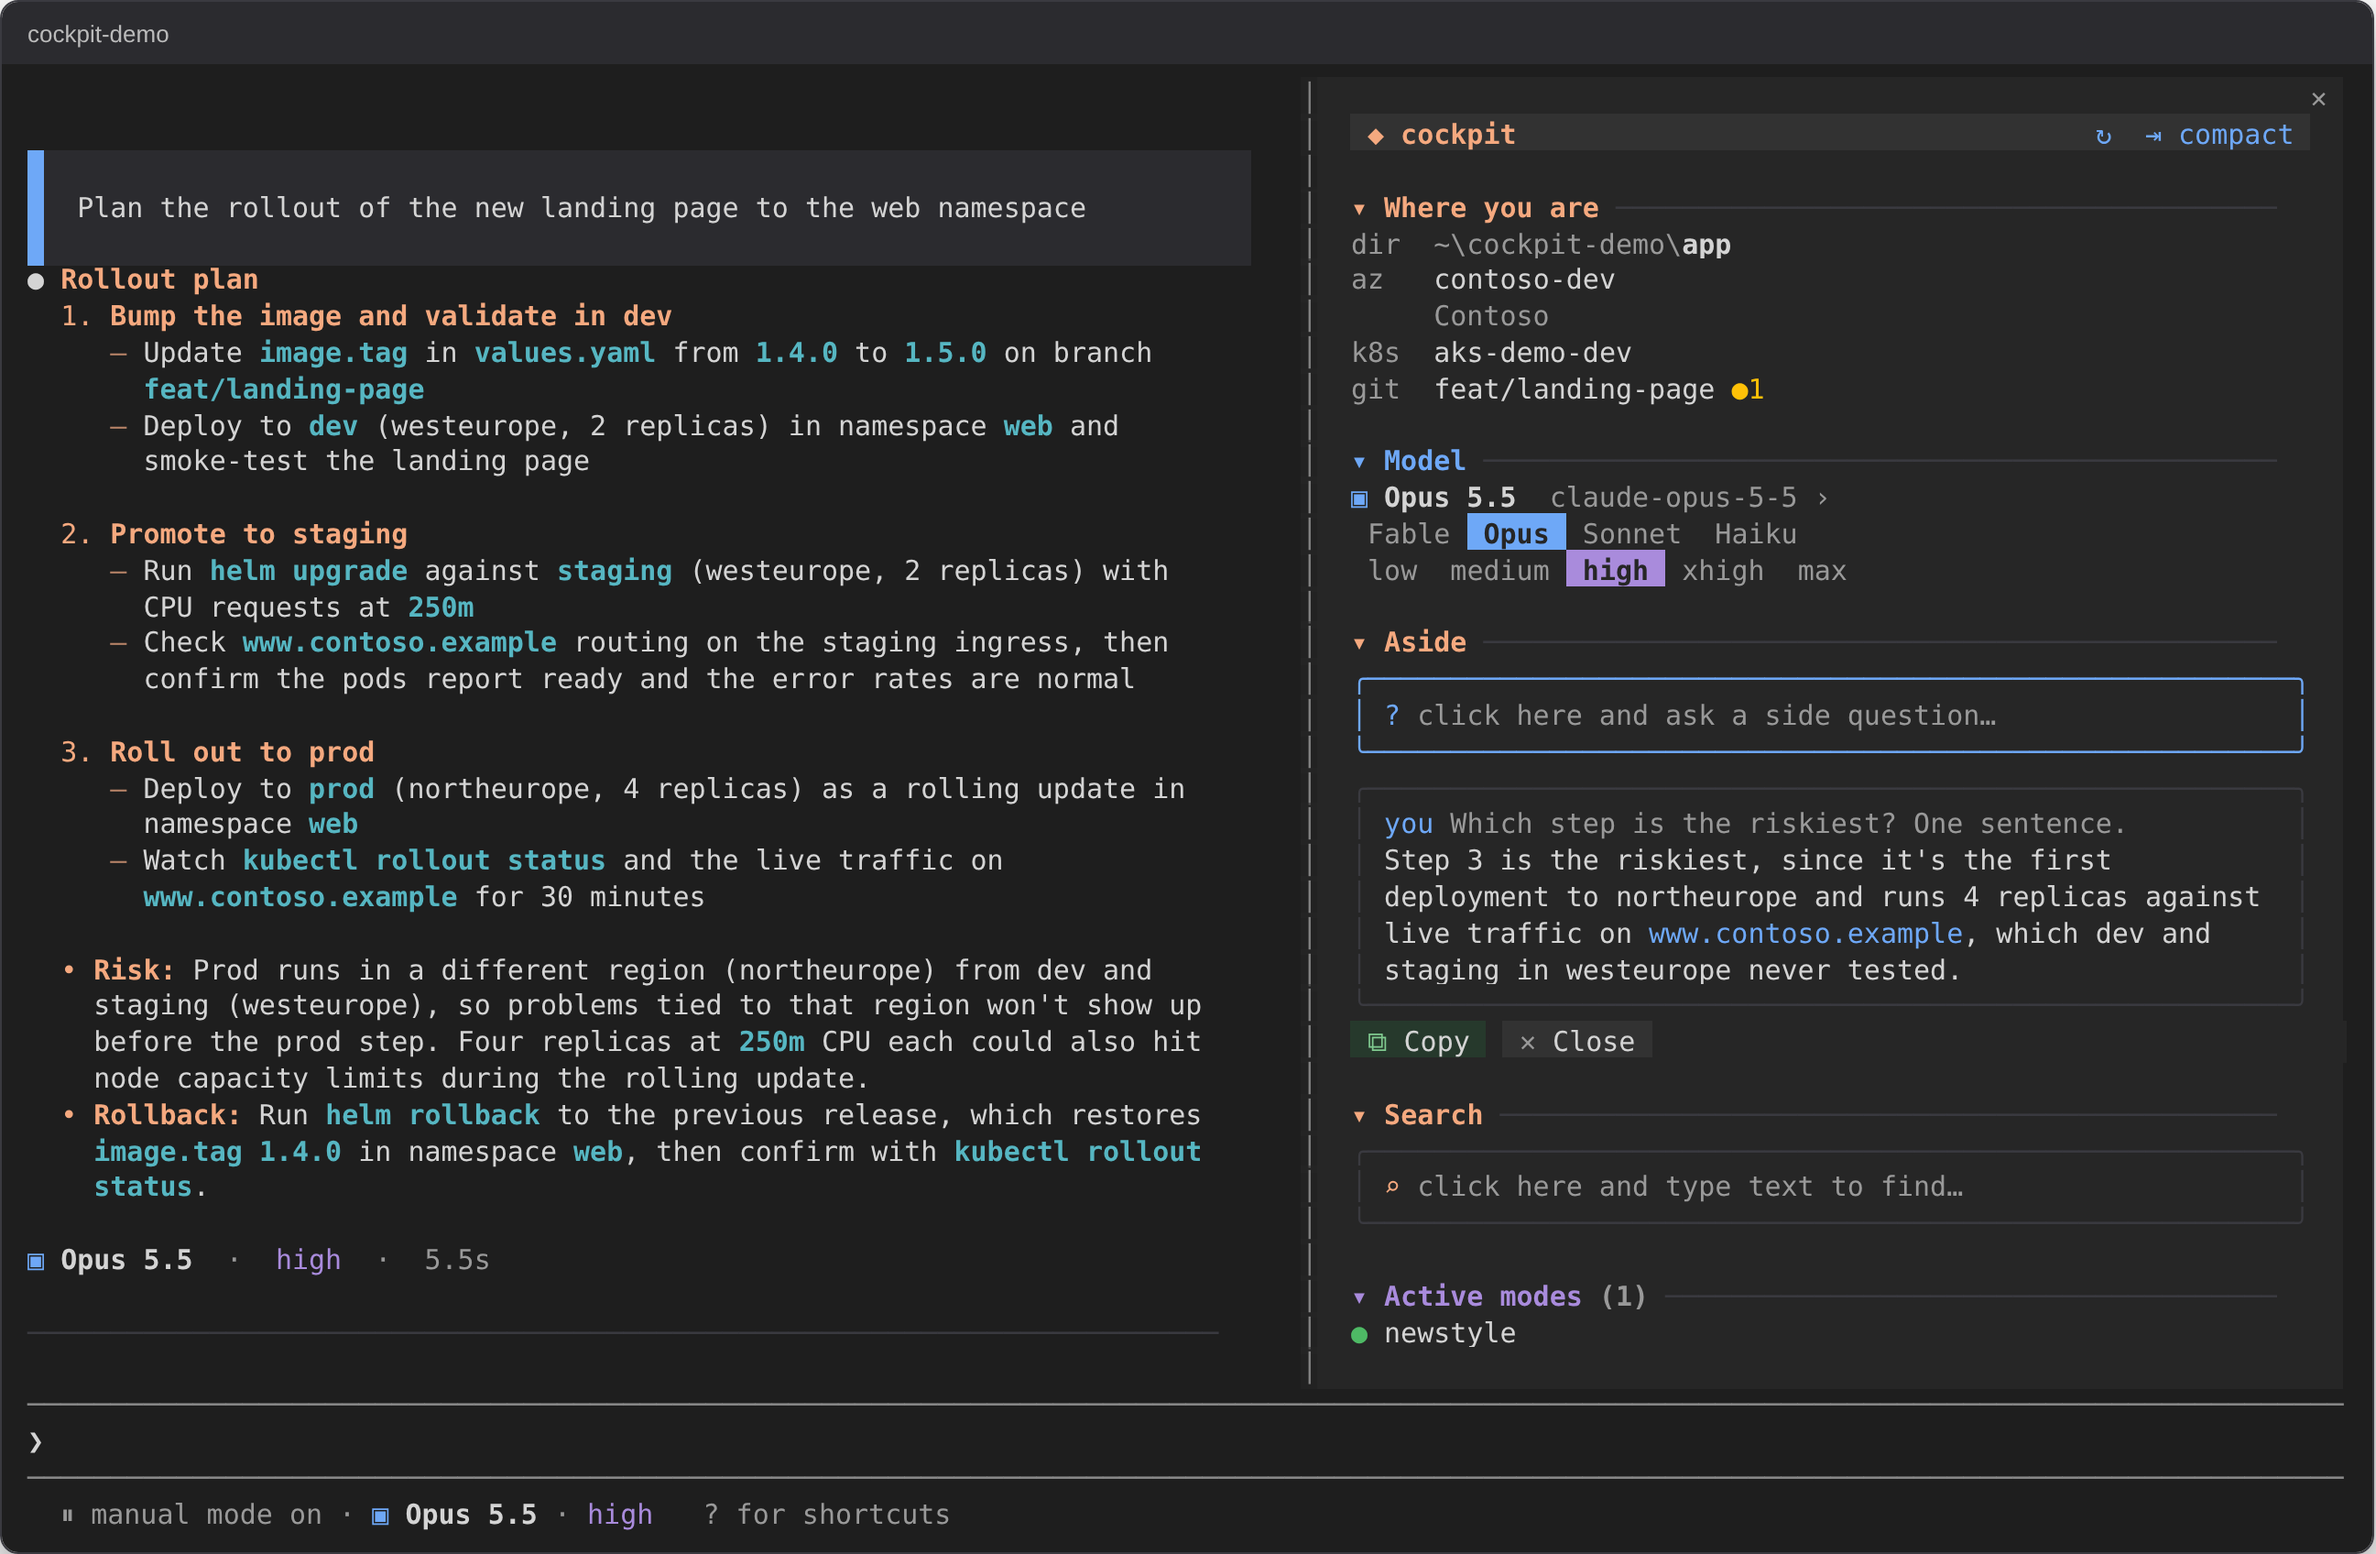
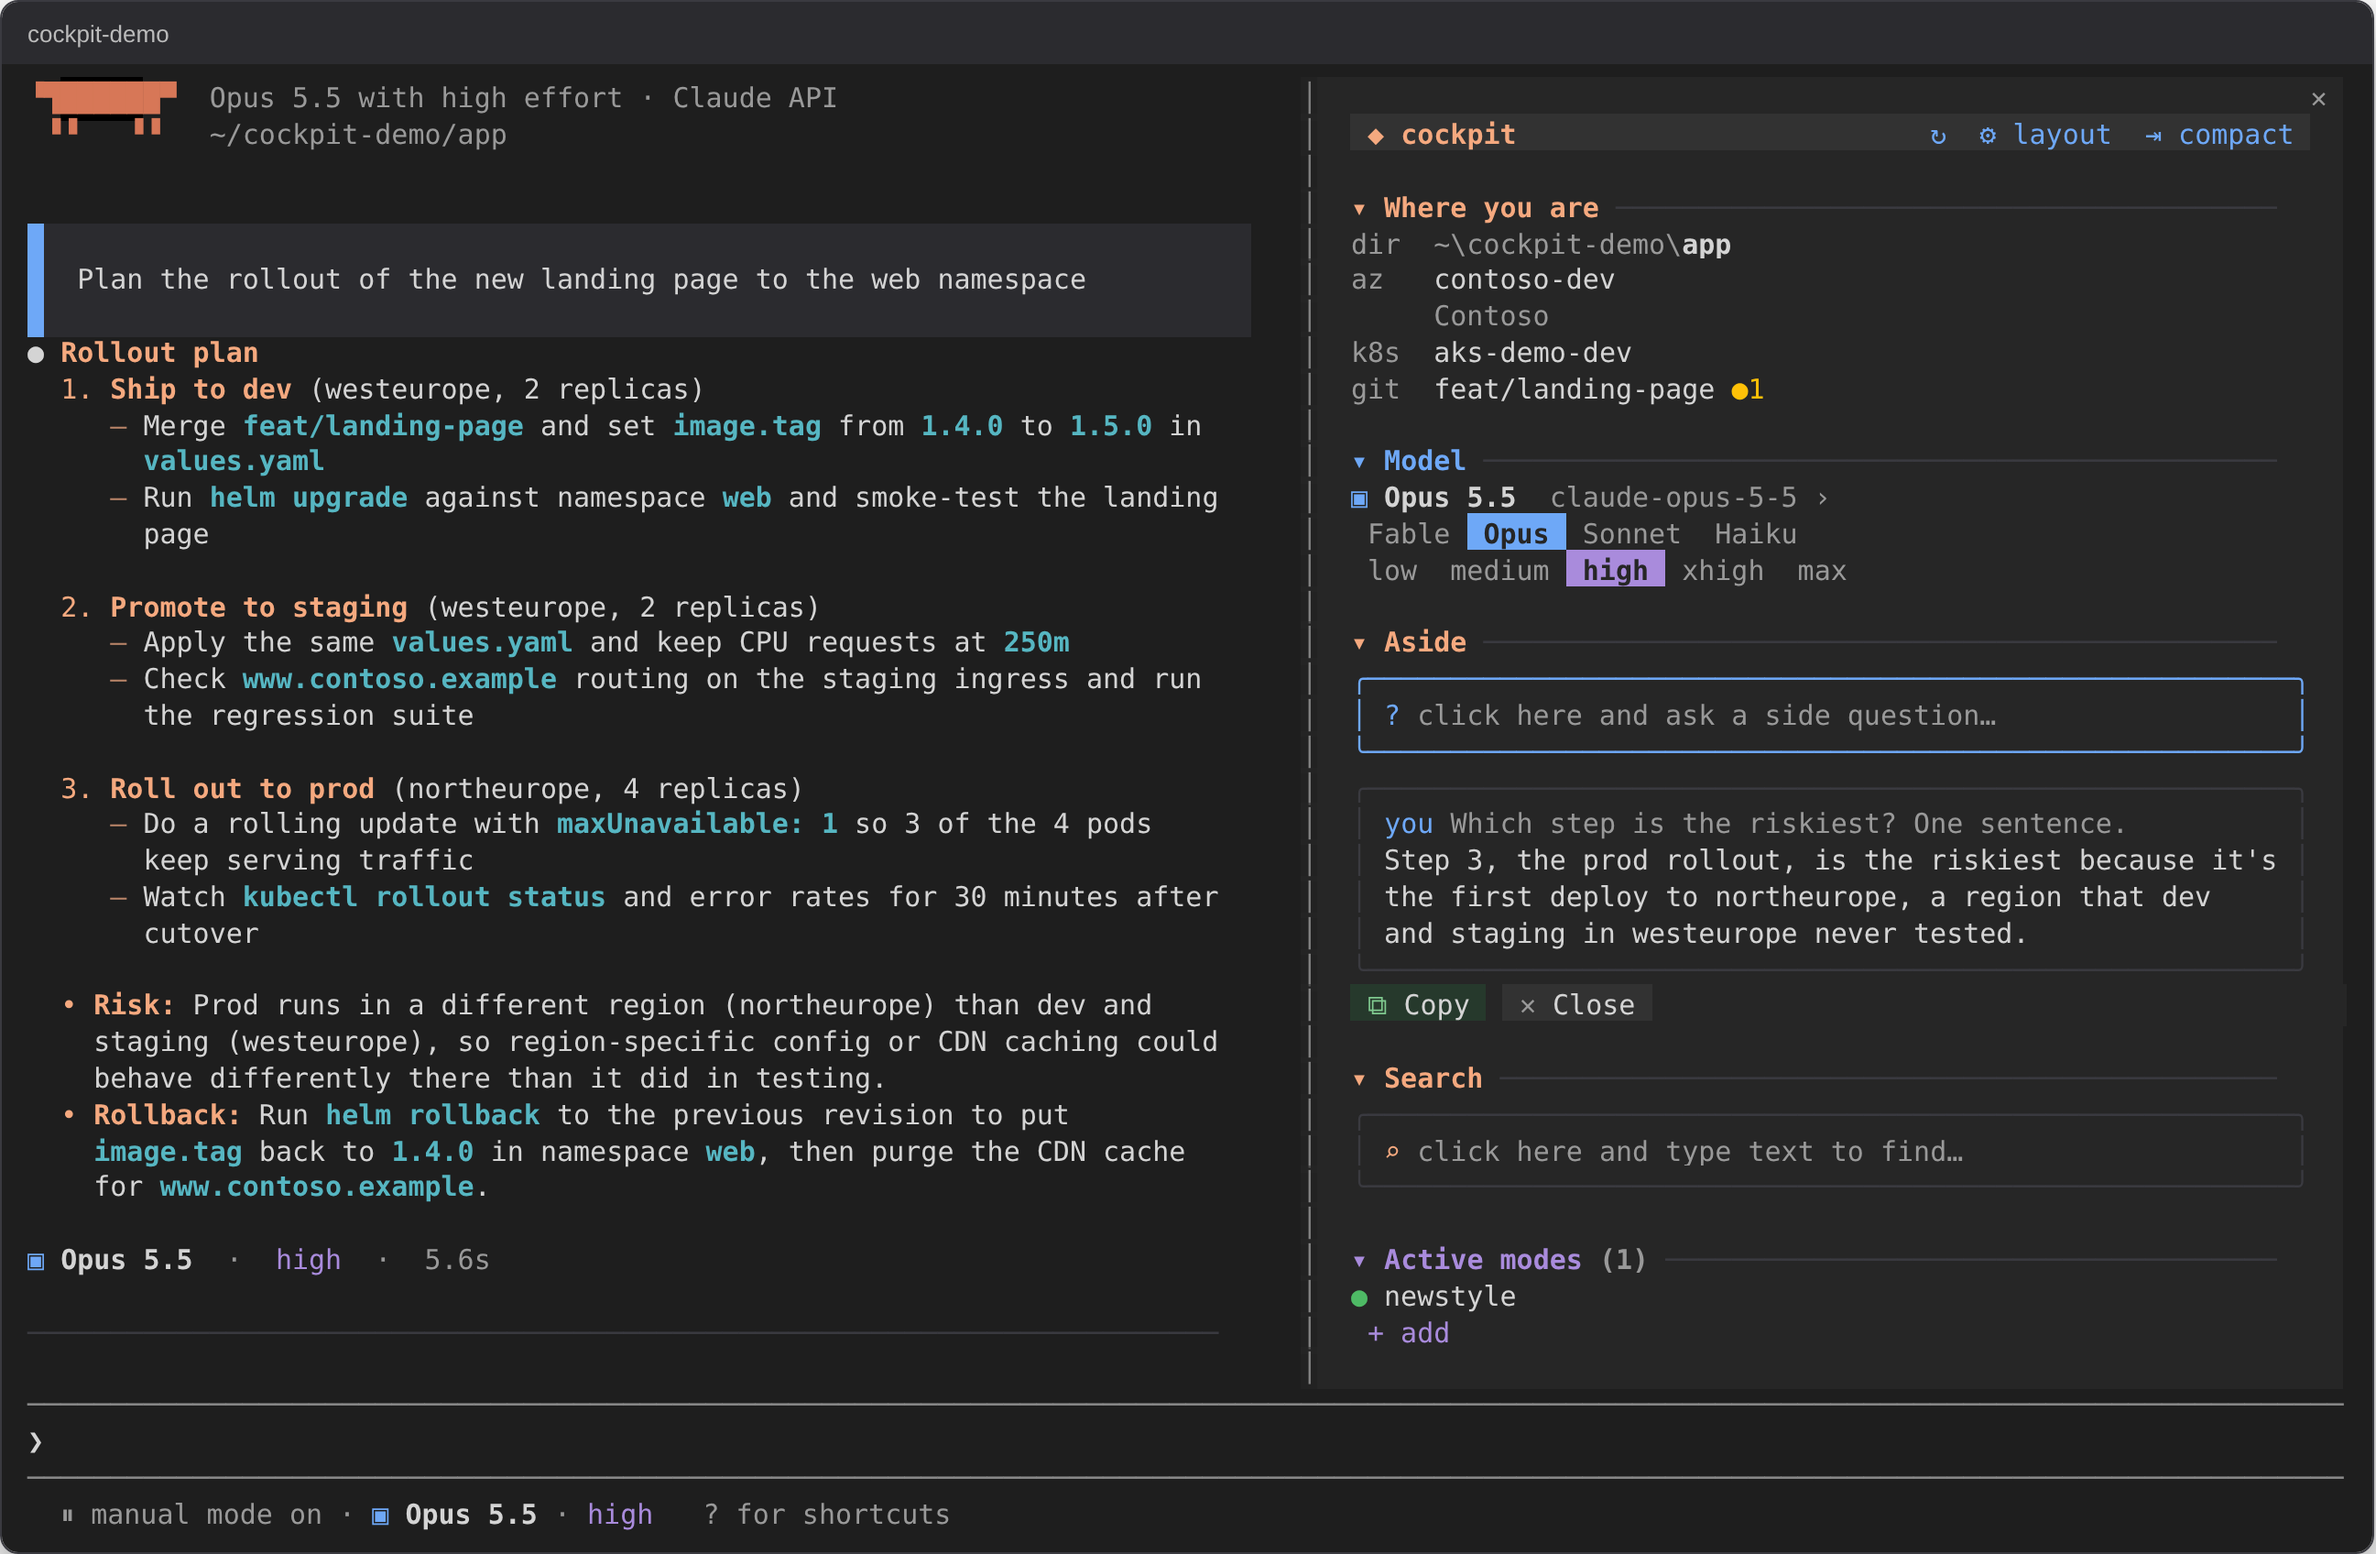
docs: layout editor screenshot, new screenshots and a 7-frame demo GIF for 0.26.0
Claude-Session: https://claude.ai/code/session_01H9XCFzxYvkbkopXCq5uiUw

diff --git a/README.md b/README.md
@@ -96,6 +96,9 @@ The panel sits on the right of the chat when the terminal is wide enough (about 
 - The panel opens at once with what is already known and fills in as the answers arrive: a slow GitHub or Azure DevOps lookup never delays it.
 - Sections with nothing to show (no PR, no pipelines, no reminders) stay hidden.
 - **`⚙ layout`**, at the top, opens the layout editor: `●`/`○` shows or hides a section, `↑`/`↓` moves it, `↺ reset` goes back to the default order, `✓ done` closes the editor. Order and hidden sections are remembered across sessions.
+
+  ![The layout editor: show, hide and move the panel sections](docs/layout.png)
+
 - Hide sections for good with the `hiddenSections` option (they do not show up in the layout editor).
 - At the bottom edge: `● Claude Code <version>` and how long the session has been running, always pinned there while the sections scroll.
 - **`⇥ compact`**, at the top next to the panel's `✕`, closes the side panel and shows a 2-line summary above the prompt instead (folder, subscription, kubectl context, branch, model and effort, context, running pipelines, writes, reminders, other sessions), so the chat gets the whole width; `⇤ expand` on that bar, or `/cockpit`, brings the side panel back. The choice is remembered across sessions.
